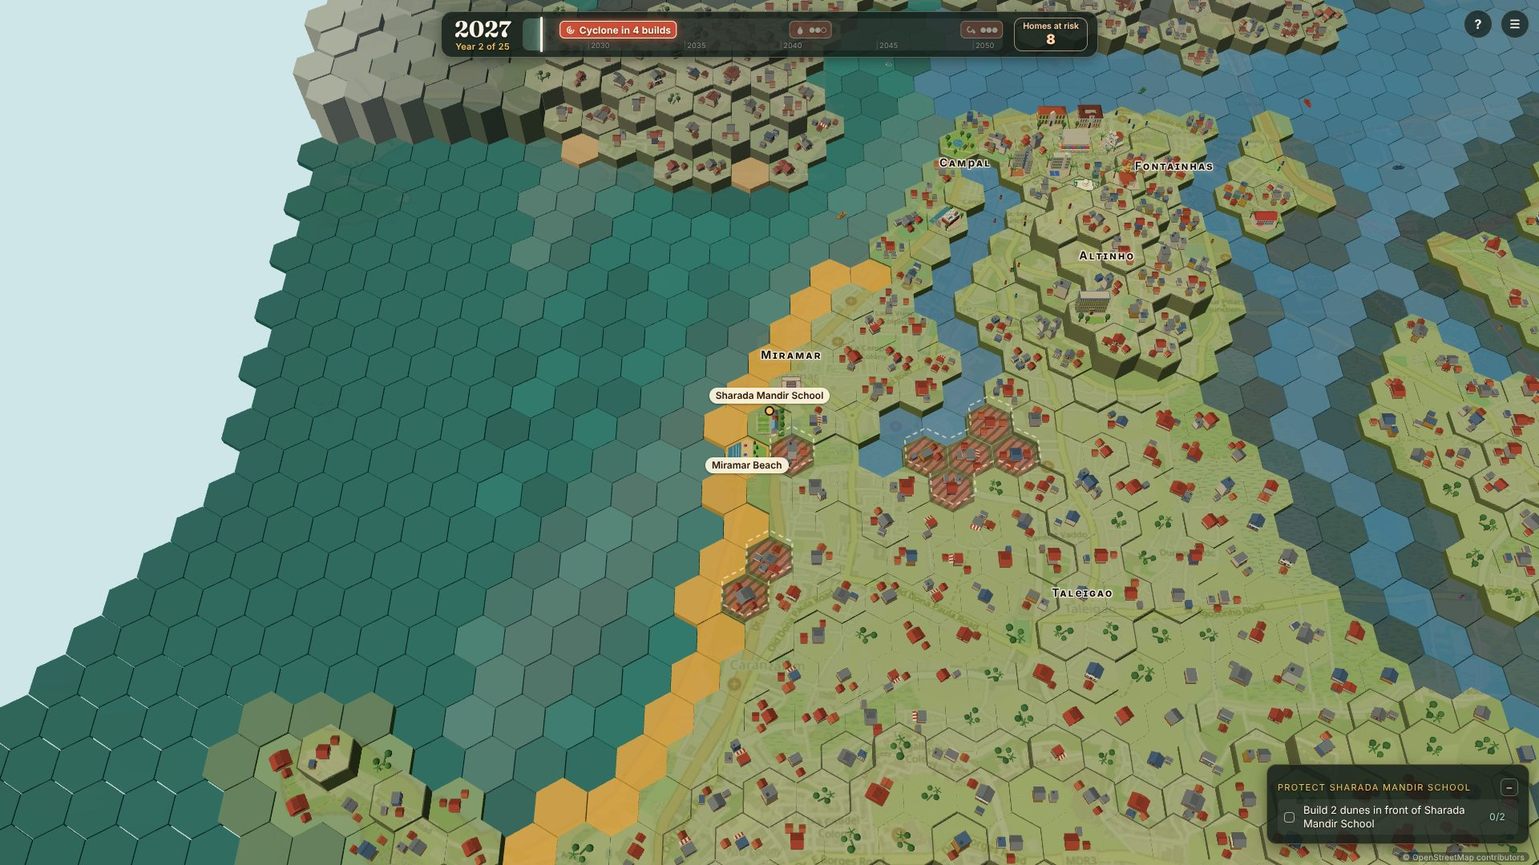
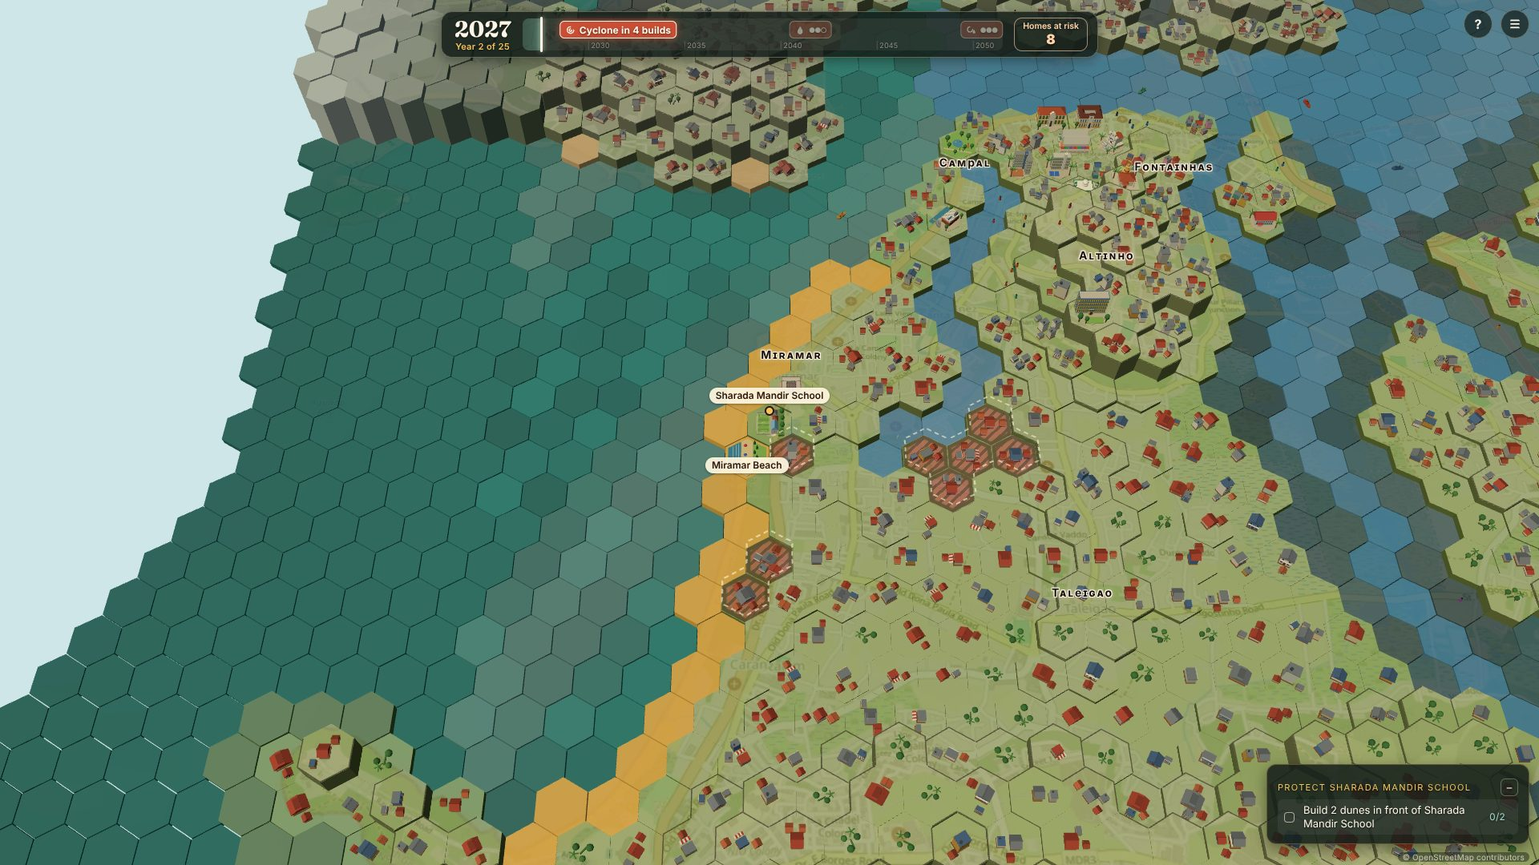
Section 21: end to end playthrough tool; live risk shots
Claude-Session: https://claude.ai/code/session_01CR8PN9tFYneT4rrWy2Y36p

diff --git a/tools/playthrough21.ts b/tools/playthrough21.ts
@@ -1,0 +1,374 @@
+/**
+ * Section 21.1: the game played end to end in a browser, as a player would,
+ * at one window size. Each step is checked; every problem is printed as
+ * "FAIL <what>" with a screenshot name, for docs/BUGS.md.
+ *
+ *   - Landing: only Tutorial and Play Panjim; Play Panjim, Begin; a build, a
+ *     reload, "Continue from 2027"; a reload, "Begin again" (back to 2026).
+ *   - A full run 2026 to 2050 for each play style (STYLES, or the ones given):
+ *     none (every build away from the storms), random, nature (nature based
+ *     only), seawalls (seawalls and breakwaters only), well (the objective's
+ *     rows, then the homes at risk). Each storm: hurried by clicks as a player
+ *     can; the result cards read; the ruins on the board checked against the
+ *     card; every card stepped through; the final card's Play again and Back
+ *     to the menu.
+ *   - Input: wheel zoom, R, S, +, -, Home, Esc at each step; a click during a
+ *     storm; a double click on a tile; Help and ☰ during a storm and over a
+ *     result card.
+ *   - Edges: a click on the north bank and the east edge; resizing the window
+ *     mid storm; reloading mid storm and over a result card; two tabs.
+ *   - Text: every visible text scanned for the dots and hyphens Section 17b
+ *     removed; nothing cut off, scrolling or off screen.
+ *   - Console: errors and warnings, none expected.
+ *
+ * Usage: npx tsx tools/playthrough21.ts <width> <height> [outDir] [styles=none,random,nature,seawalls,well]
+ * Exits 1 on any failure.
+ */
+import { chromium, type Browser, type BrowserContext, type Page } from "playwright";
+import fs from "node:fs";
+import path from "node:path";
+import { startDevServer } from "./devServer";
+import { punctuationProblems } from "../tests/helpers/uiStrings";
+
+const ROOT = path.resolve(import.meta.dirname, "..");
+const plain = process.argv.slice(2).filter((a) => !a.includes("="));
+const named = new Map(process.argv.slice(2).filter((a) => a.includes("=")).map((a) => a.split("=") as [string, string]));
+const [w = "1366", h = "768", outDir = "docs/qa/section21/playthrough"] = plain;
+const W = Number(w);
+const H = Number(h);
+const OUT = path.resolve(ROOT, outDir);
+fs.mkdirSync(OUT, { recursive: true });
+const STYLES = (named.get("styles") ?? "none,random,nature,seawalls,well").split(",");
+const server = await startDevServer(Number(process.env.PORT ?? 5491));
+const browser: Browser = await chromium.launch({ executablePath: fs.existsSync("/opt/pw-browsers/chromium") ? "/opt/pw-browsers/chromium" : undefined, args: ["--use-gl=angle", "--use-angle=swiftshader", "--enable-unsafe-swiftshader", "--ignore-gpu-blocklist"] });
+let failures = 0;
+const check = (ok: boolean, what: string): void => {
+  if (!ok) failures++;
+  console.log(`${ok ? "PASS" : "FAIL"} [${W}x${H}] ${what}`);
+};
+const tag = `${W}x${H}`;
+
+/** A fresh context and page, its console watched. Errors and warnings land in `log`. */
+async function newPage(context?: BrowserContext): Promise<{ page: Page; log: string[]; context: BrowserContext }> {
+  const ctx = context ?? (await browser.newContext({ viewport: { width: W, height: H } }));
+  const page = await ctx.newPage();
+  const log: string[] = [];
+  page.on("console", (m) => {
+    if (m.type() === "error" || m.type() === "warning") log.push(`${m.type()}: ${m.text()}`);
+  });
+  page.on("pageerror", (e) => log.push(`pageerror: ${e.message}`));
+  return { page, log, context: ctx };
+}
+
+async function shot(page: Page, name: string): Promise<string> {
+  const file = `${name}-${tag}.jpg`;
+  await page.screenshot({ path: path.join(OUT, file), type: "jpeg", quality: 72 });
+  return file;
+}
+
+/** Visible text (nodes and the attributes a player meets) scanned for Section 17b's dots and hyphens; and anything cut off, scrolling or off screen. */
+async function textAndLayout(page: Page, where: string): Promise<void> {
+  const found = (await page.evaluate(`(() => {
+    const texts = [];
+    const walker = document.createTreeWalker(document.body, NodeFilter.SHOW_TEXT);
+    const visible = (el) => { if (!el) return false; const cs = getComputedStyle(el); if (cs.display === "none" || cs.visibility === "hidden" || Number(cs.opacity) === 0) return false; const r = el.getBoundingClientRect(); return r.width > 0 && r.height > 0; };
+    for (let n = walker.nextNode(); n; n = walker.nextNode()) { const t = n.textContent.trim(); if (t && visible(n.parentElement)) texts.push(t); }
+    for (const el of document.querySelectorAll("[aria-label],[title],[alt],[placeholder]")) if (visible(el)) for (const a of ["aria-label","title","alt","placeholder"]) { const v = el.getAttribute(a); if (v) texts.push(v); }
+    const layout = [];
+    for (const el of document.querySelectorAll("body *")) {
+      if (!visible(el) || el.closest("canvas, svg, .map-labels, .map-label, .map-pins")) continue;
+      const cs = getComputedStyle(el);
+      const r = el.getBoundingClientRect();
+      const name = el.className && typeof el.className === "string" ? el.className.split(" ")[0] : el.tagName.toLowerCase();
+      if (["auto", "scroll"].includes(cs.overflowY) && el.scrollHeight > el.clientHeight + 2) layout.push("scrolls: " + name);
+      if (["hidden", "clip"].includes(cs.overflowX) && el.scrollWidth > el.clientWidth + 2 && el.children.length === 0 && el.textContent.trim()) layout.push("cut off: " + name + " (" + el.textContent.trim().slice(0, 40) + ")");
+      if (cs.position === "fixed" || cs.position === "absolute") {
+        if (r.right > innerWidth + 1 || r.bottom > innerHeight + 1 || r.left < -1 || r.top < -1) if (el.textContent.trim() && r.width < innerWidth) layout.push("off screen: " + name);
+      }
+    }
+    return { texts, layout: [...new Set(layout)] };
+  })()`)) as { texts: string[]; layout: string[] };
+  const punct = [...new Set(found.texts.filter((t) => punctuationProblems(t).length > 0 && !/White-throated Kingfisher/.test(t)))];
+  check(punct.length === 0, `${where}: no dots or hyphens between words${punct.length ? `: ${punct.slice(0, 4).join(" | ")}` : ""}`);
+  check(found.layout.length === 0, `${where}: nothing cut off, scrolling or off screen${found.layout.length ? `: ${found.layout.slice(0, 6).join("; ")}` : ""}`);
+}
+
+const ready = async (page: Page): Promise<void> => {
+  await page.waitForSelector(".brief-card", { timeout: 120000 });
+  await page.waitForFunction(`typeof window.__panjimScenarioForTest === "function"`, undefined, { timeout: 180000 });
+  await page.waitForTimeout(1200);
+};
+const begin = async (page: Page, label = "Begin"): Promise<void> => {
+  await page.locator(".brief-cta", { hasText: label }).first().click();
+  await page.waitForTimeout(2500);
+  await page.mouse.move(2, H - 2);
+};
+const year = (page: Page): Promise<number> => page.evaluate("window.__panjimForTest.run.year") as Promise<number>;
+const cardsOpen = (page: Page): Promise<boolean> => page.evaluate("!!document.querySelector('.result-cards:not([hidden]) .result-next')") as Promise<boolean>;
+const storming = (page: Page): Promise<boolean> => page.evaluate("window.__panjimForTest.host.challengeFx.isPlaying()") as Promise<boolean>;
+const finalCard = (page: Page): Promise<boolean> => page.evaluate("!!document.querySelector('.finale-card') || [...document.querySelectorAll('.result-cards:not([hidden]) button')].some((b) => /Play again/.test(b.textContent))") as Promise<boolean>;
+
+// In-page: the tile a play style builds on next (null: nothing worth building, the year goes away from the storms).
+const PICK = `(style, seed) => {
+  const p = window.__panjimForTest; const run = p.run; const state = run.state;
+  let s = seed; const rnd = () => (s = (s * 16807) % 2147483647) / 2147483647;
+  const ALL = ["dune", "sandy_vegetation", "seawall", "breakwater", "mangrove", "khazan", "small_dam"];
+  const allowed = { random: ALL, nature: ["dune", "sandy_vegetation", "mangrove", "khazan"], seawalls: ["seawall", "breakwater"], well: ALL }[style];
+  if (!allowed) return null;
+  const at = (k) => { const [q, r] = k.split(",").map(Number); return { q, r }; };
+  const can = (k, id) => state.canBuild(at(k), id);
+  const hex = (a, b) => { const A = at(a), B = at(b); return (Math.abs(A.q - B.q) + Math.abs(A.r - B.r) + Math.abs(A.q + A.r - B.q - B.r)) / 2; };
+  if (style === "well" || style === "nature") for (const pk of run.objective?.picks ?? []) if (allowed.includes(pk.elementId) && can(pk.key, pk.elementId)) return { key: pk.key, id: pk.elementId };
+  const keys = [...state.placed.keys()].filter((k) => !state.isScenery(k));
+  if (style !== "random") {
+    const next = run.nextChallenge(); const exp = next ? run.exposureFor(next) : null; const risk = exp ? exp.housesAtRisk : [];
+    let best = null;
+    for (const k of keys) { const near = risk.filter((h) => hex(h, k) <= 2).length; if (!near) continue; for (const id of allowed) if (can(k, id)) { const score = near + rnd(); if (!best || score > best.score) best = { key: k, id, score }; } }
+    if (best) return { key: best.key, id: best.id };
+    if (style !== "well") return null;
+  }
+  for (let t = 0; t < 400; t++) { const k = keys[Math.floor(rnd() * keys.length)]; const ids = allowed.filter((id) => can(k, id)); if (ids.length) return { key: k, id: ids[Math.floor(rnd() * ids.length)] }; }
+  return null;
+}`;
+
+/** Plays a storm through as a player who clicks to hurry it, then reads and closes the result cards. Returns false at the final card. */
+async function weatherStorm(page: Page, style: string, ruinsBefore: number): Promise<{ ruins: number; final: boolean }> {
+  for (let k = 0; k < 800 && !(await cardsOpen(page)) && !(await finalCard(page)); k++) {
+    if (await storming(page)) await page.mouse.click(W * 0.5, H * 0.55);
+    await page.waitForTimeout(250);
+  }
+  const id = (await page.evaluate("[...window.__panjimForTest.run.landed].pop()")) as string;
+  const outcome = (await page.evaluate(`(() => { const o = window.__panjimForTest.run.outcomes.get(${JSON.stringify(id)}); return o ? { damaged: o.housesDamaged, saved: o.housesSaved, total: o.housesTotal, stars: o.stars } : null; })()`)) as { damaged: number; saved: number; total: number; stars: number } | null;
+  const card = (await page.evaluate(`(() => { const m = /(\\d+) of (\\d+) homes saved/.exec(document.querySelector(".result-homes-text")?.textContent ?? ""); return m ? { saved: Number(m[1]), total: Number(m[2]) } : null; })()`)) as { saved: number; total: number } | null;
+  const ruins = (await page.evaluate("window.__ruinsForTest().ruined")) as number;
+  check(!!outcome && !!card && card.saved === outcome.saved && card.total === outcome.total, `${style} ${id}: the card reads ${card?.saved} of ${card?.total} homes saved, as the storm resolved`);
+  check(!!outcome && ruins - ruinsBefore === outcome.damaged, `${style} ${id}: ${ruins - ruinsBefore} new ruins, the ${outcome?.damaged} homes it destroyed`);
+  await shot(page, `${style}-${id}-card1`);
+  await textAndLayout(page, `${style} ${id} result card`);
+  // Input over a result card: Help and ☰ open and close; Esc.
+  await page.keyboard.press("Escape");
+  await page.waitForTimeout(400);
+  check(await cardsOpen(page) || (await finalCard(page)), `${style} ${id}: Esc does not drop the result cards`);
+  for (let k = 0; k < 8; k++) {
+    if (await finalCard(page)) return { ruins, final: true };
+    const next = page.locator(".result-cards:not([hidden]) .result-next");
+    if (!(await next.isVisible().catch(() => false))) break;
+    const label = (await next.textContent()) ?? "";
+    await next.click();
+    await page.waitForTimeout(1100);
+    if (/Play again|Back to/.test(label)) break;
+  }
+  await page.waitForTimeout(1500);
+  return { ruins, final: await finalCard(page) };
+}
+
+/** A full run in one play style, 2026 to 2050. */
+async function playStyle(style: string): Promise<void> {
+  const { page, log, context } = await newPage();
+  await page.addInitScript(() => {
+    try {
+      localStorage.clear();
+    } catch {
+      /* blocked */
+    }
+  });
+  await page.goto(`${server.url}/#/play/l01-first-rains`, { waitUntil: "domcontentloaded" });
+  await ready(page);
+  await begin(page);
+  let ruins = 0;
+  let seed = 9871 + style.length * 31;
+  let builds = 0;
+  while (builds < 40) {
+    if (await finalCard(page)) break;
+    if ((await page.evaluate("window.__panjimForTest.run.finished")) as boolean) break;
+    const pick = (await page.evaluate(`(${PICK})(${JSON.stringify(style)}, ${seed++})`)) as { key: string; id: string } | null;
+    const before = await year(page);
+    if (pick) {
+      const [q, r] = pick.key.split(",").map(Number);
+      void page.evaluate(`window.__panjimForTest.buildNow({ q: ${q}, r: ${r} }, ${JSON.stringify(pick.id)})`);
+    } else void page.evaluate(`window.__panjimScenarioForTest("pass-year")`);
+    builds++;
+    // The year ends; a storm may come.
+    for (let k = 0; k < 120; k++) {
+      await page.waitForTimeout(200);
+      if ((await storming(page)) || (await cardsOpen(page)) || (await year(page)) !== before || (await finalCard(page))) break;
+    }
+    if ((await storming(page)) || (await cardsOpen(page))) {
+      if (builds < 8) {
+        // Input during the first storm: Help and ☰ refuse or wait, a double click, R and S, a resize.
+        await page.keyboard.press("?");
+        await page.locator(".help-button").click({ timeout: 1000 }).catch(() => undefined);
+        await page.waitForTimeout(300);
+        await page.keyboard.press("Escape");
+        await page.mouse.dblclick(W * 0.45, H * 0.5);
+        await page.keyboard.press("r");
+        await page.keyboard.press("r");
+        await page.setViewportSize({ width: Math.round(W * 0.8), height: Math.round(H * 0.8) });
+        await page.waitForTimeout(500);
+        await page.setViewportSize({ width: W, height: H });
+        await shot(page, `${style}-storm`);
+      }
+      const result = await weatherStorm(page, style, ruins);
+      ruins = result.ruins;
+      if (result.final) break;
+    }
+  }
+  check(await finalCard(page), `${style}: the run reaches the final card (${builds} builds, year ${await year(page)})`);
+  await shot(page, `${style}-final`);
+  await textAndLayout(page, `${style} final card`);
+  const stars = (await page.evaluate("window.__panjimForTest.run.schedule.map((c) => window.__panjimForTest.run.outcomes.get(c.id)?.stars ?? 0)")) as number[];
+  console.log(`INFO [${tag}] ${style}: stars ${stars.join(" / ")}, ruins ${ruins}`);
+  const buttons = (await page.evaluate("[...document.querySelectorAll('button')].filter((b) => b.getClientRects().length).map((b) => b.textContent.trim())")) as string[];
+  check(buttons.some((b) => /Play again/.test(b)), `${style}: the final card offers Play again (${buttons.filter((b) => /Play|Back|menu/i.test(b)).join(", ")})`);
+  const errs = log.filter((l) => !/Download the React DevTools|GPU stall|WebGL/.test(l));
+  check(errs.length === 0, `${style}: no console errors or warnings${errs.length ? `: ${errs.slice(0, 3).join(" | ")}` : ""}`);
+  await context.close();
+}
+
+// ---- landing, continue, begin again, input, edges ----------------------------------------
+{
+  const { page, log, context } = await newPage();
+  await page.goto(server.url, { waitUntil: "domcontentloaded" });
+  await page.waitForTimeout(4000);
+  const menu = (await page.evaluate("[...document.querySelectorAll('.menu button, .menu a, nav button, .landing button')].filter((b) => b.getClientRects().length).map((b) => b.textContent.trim())")) as string[];
+  check(menu.some((t) => /Tutorial/.test(t)) && menu.some((t) => /Play Panjim/.test(t)) && !menu.some((t) => /level/i.test(t)), `the menu offers Tutorial and Play Panjim only (${menu.join(", ")})`);
+  await shot(page, "landing");
+  await textAndLayout(page, "landing");
+  await page.getByText("Play Panjim").first().click();
+  await ready(page);
+  await shot(page, "start-popup");
+  await textAndLayout(page, "start popup");
+  await begin(page);
+  await textAndLayout(page, "the board in 2026");
+  // Keys: R, S, +, -, Home, Esc.
+  for (const key of ["r", "r", "s", "s", "+", "-", "Home"]) {
+    await page.keyboard.press(key);
+    await page.waitForTimeout(250);
+  }
+  await page.mouse.move(W / 2, H / 2);
+  for (let i = 0; i < 3; i++) await page.mouse.wheel(0, -500);
+  for (let i = 0; i < 3; i++) await page.mouse.wheel(0, 500);
+  await page.keyboard.press("Escape");
+  await page.waitForTimeout(500);
+  const leave = (await page.evaluate("!!document.querySelector('.leave-confirm:not([hidden])') && document.querySelector('.leave-confirm').getClientRects().length > 0")) as boolean;
+  check(leave, "Esc with nothing open asks to leave Panjim");
+  await shot(page, "esc-leave");
+  await page.keyboard.press("Escape");
+  await page.waitForTimeout(400);
+  // ☰ and Help, and Esc closing each.
+  for (const [button, layer] of [[".hud-panel-settings .hud-panel-button", ".hud-panel-settings .hud-panel-body"], [".help-button", ".help-card"]]) {
+    await page.locator(button).first().click().catch(() => undefined);
+    await page.waitForTimeout(700);
+    const label = button.includes("help") ? "Help" : "the ☰ menu";
+    await shot(page, `open-${button.includes("help") ? "help" : "menu"}`);
+    await textAndLayout(page, label);
+    await page.keyboard.press("Escape");
+    await page.waitForTimeout(500);
+    const still = (await page.evaluate(`[...document.querySelectorAll(${JSON.stringify(layer)})].some((el) => el.getClientRects().length && getComputedStyle(el).visibility !== "hidden" && !el.hidden)`)) as boolean;
+    check(!still, `Esc closes ${label}`);
+  }
+  // The Field Guide.
+  await page.locator(".field-guide-button").first().click({ force: true }).catch(() => undefined);
+  await page.waitForTimeout(600);
+  await shot(page, "field-guide");
+  await textAndLayout(page, "Field Guide");
+  await page.keyboard.press("Escape");
+  await page.waitForTimeout(400);
+  // A build menu on each kind of ground, the Not here line; the notes on scenery and a landmark.
+  for (const [ground, element] of [["beach", "dune"], ["wetland", "mangrove"], ["river", "small_dam"], ["coast", "breakwater"], ["land", "khazan"]] as const) {
+    const opened = (await page.evaluate(`(() => { const t = window.__panjimForTest.firstBuildable(${JSON.stringify(element)}); return t ? window.__openTileForTest(t.q, t.r) : false; })()`)) as boolean;
+    await page.mouse.move(2, H - 2);
+    await page.waitForTimeout(800);
+    if (opened) {
+      await shot(page, `build-menu-${ground}`);
+      await textAndLayout(page, `build menu on ${ground}`);
+    }
+    check(opened, `a build menu opens on ${ground}`);
+    await page.keyboard.press("Escape");
+    await page.waitForTimeout(400);
+  }
+  for (const [what, q, r, note] of [["the north bank", 1, 6, /North of the Mandovi/], ["the east edge", 27, 13, /Outside Panjim/], ["a landmark", 11, 8, /Panjim landmark/]] as const) {
+    await page.evaluate(`window.__openTileForTest(${q}, ${r})`);
+    await page.waitForTimeout(800);
+    const text = (await page.evaluate("[...document.querySelectorAll('.build-popover')].filter((el) => el.getClientRects().length).map((el) => el.innerText).join(' ')")) as string;
+    check(note.test(text) && !/Build|Plant/.test(text.split("\n")[0]), `${what}: its note only ("${text.replace(/\s+/g, " ").slice(0, 60)}")`);
+    await page.keyboard.press("Escape");
+    await page.waitForTimeout(400);
+  }
+  // A build, then a reload: Continue from 2027; then Begin again.
+  const t = (await page.evaluate("window.__panjimForTest.firstBuildable('dune')")) as { q: number; r: number };
+  await page.evaluate(`window.__panjimForTest.buildNow({ q: ${t.q}, r: ${t.r} }, "dune")`);
+  await page.waitForTimeout(2500);
+  check((await year(page)) === 2027, "a build ends the year: 2027");
+  await page.reload({ waitUntil: "domcontentloaded" });
+  await ready(page);
+  const ctas = (await page.evaluate("[...document.querySelectorAll('.brief-cta')].map((b) => b.textContent.trim())")) as string[];
+  check(ctas.some((c) => /Continue from 2027/.test(c)) && ctas.some((c) => /Begin again/.test(c)), `after a reload the start popup offers ${ctas.join(" and ")}`);
+  await shot(page, "continue");
+  await begin(page, "Continue from 2027");
+  check((await year(page)) === 2027, "Continue lands in 2027");
+  // Two tabs on the same run.
+  const second = await newPage(context);
+  await second.page.goto(`${server.url}/#/play/l01-first-rains`, { waitUntil: "domcontentloaded" });
+  await ready(second.page);
+  const ctas2 = (await second.page.evaluate("[...document.querySelectorAll('.brief-cta')].map((b) => b.textContent.trim())")) as string[];
+  check(ctas2.some((c) => /Continue from 2027/.test(c)), `a second tab offers the same saved run (${ctas2.join(", ")})`);
+  await begin(second.page, "Begin again");
+  check((await year(second.page)) === 2026, "Begin again in the second tab starts at 2026");
+  const t2 = (await second.page.evaluate("window.__panjimForTest.firstBuildable('dune')")) as { q: number; r: number };
+  await second.page.evaluate(`window.__panjimForTest.buildNow({ q: ${t2.q}, r: ${t2.r} }, "dune")`);
+  await second.page.waitForTimeout(2000);
+  const t1 = (await page.evaluate("window.__panjimForTest.firstBuildable('mangrove')")) as { q: number; r: number };
+  await page.evaluate(`window.__panjimForTest.buildNow({ q: ${t1.q}, r: ${t1.r} }, "mangrove")`);
+  await page.waitForTimeout(2000);
+  check((await year(page)) === 2028 && (await year(second.page)) === 2027, `two tabs each play on (first ${await year(page)}, second ${await year(second.page)})`);
+  check(second.log.filter((l) => !/GPU stall|WebGL/.test(l)).length === 0, `the second tab: no console errors or warnings${second.log.length ? `: ${second.log.slice(0, 3).join(" | ")}` : ""}`);
+  await second.page.close();
+  // Reload mid storm and over a result card.
+  await page.evaluate(`window.__panjimScenarioForTest("storm-6")`);
+  await page.waitForTimeout(1500);
+  check(await storming(page), "a storm is playing");
+  await page.setViewportSize({ width: Math.round(W * 0.75), height: Math.round(H * 0.75) });
+  await page.waitForTimeout(800);
+  await shot(page, "resized-mid-storm");
+  await page.setViewportSize({ width: W, height: H });
+  await page.waitForTimeout(800);
+  const canvas = (await page.evaluate("(() => { const c = document.querySelector('canvas'); const r = c.getBoundingClientRect(); return { w: Math.round(r.width), h: Math.round(r.height) }; })()")) as { w: number; h: number };
+  check(Math.abs(canvas.w - W) <= 2 && Math.abs(canvas.h - H) <= 2, `after a resize mid storm the board fills the window again (${canvas.w}x${canvas.h})`);
+  await page.reload({ waitUntil: "domcontentloaded" });
+  await ready(page);
+  const afterStorm = (await page.evaluate("[...document.querySelectorAll('.brief-cta')].map((b) => b.textContent.trim())")) as string[];
+  await shot(page, "reload-mid-storm");
+  check(afterStorm.some((c) => /Continue from/.test(c)), `reloading mid storm offers to continue (${afterStorm.join(", ")})`);
+  await begin(page, afterStorm.find((c) => /Continue from/.test(c)) ?? "Begin");
+  for (let k = 0; k < 300 && (await storming(page)); k++) {
+    await page.mouse.click(W * 0.5, H * 0.55);
+    await page.waitForTimeout(250);
+  }
+  const resumed = await year(page);
+  console.log(`INFO [${tag}] reload mid storm: continued at ${resumed}, landed ${await page.evaluate("[...window.__panjimForTest.run.landed].join(',')")}`);
+  await page.evaluate(`window.__panjimScenarioForTest("to-results")`).catch(() => undefined);
+  for (let k = 0; k < 400 && !(await cardsOpen(page)); k++) await page.waitForTimeout(250);
+  check(await cardsOpen(page), "a result card is open");
+  await page.locator(".help-button").click({ timeout: 1500 }).catch(() => undefined);
+  await page.waitForTimeout(600);
+  await shot(page, "help-over-result-card");
+  await page.keyboard.press("Escape");
+  await page.waitForTimeout(400);
+  check(await cardsOpen(page), "Help over a result card closes back to the card");
+  await page.reload({ waitUntil: "domcontentloaded" });
+  await ready(page);
+  const afterCard = (await page.evaluate("[...document.querySelectorAll('.brief-cta')].map((b) => b.textContent.trim())")) as string[];
+  await shot(page, "reload-over-result-card");
+  check(afterCard.some((c) => /Continue from/.test(c)), `reloading over a result card offers to continue (${afterCard.join(", ")})`);
+  const errs = log.filter((l) => !/GPU stall|WebGL/.test(l));
+  check(errs.length === 0, `landing, input and edges: no console errors or warnings${errs.length ? `: ${errs.slice(0, 4).join(" | ")}` : ""}`);
+  await context.close();
+}
+
+for (const style of STYLES) await playStyle(style);
+
+console.log(`${failures === 0 ? "ALL PASS" : `${failures} FAILED`} (${tag})`);
+await browser.close();
+server.stop();
+process.exit(failures === 0 ? 0 : 1);

diff --git a/tools/section21Shots.ts b/tools/section21Shots.ts
@@ -82,7 +82,8 @@ const before = await risk(page);
 check(before.year === 2027 && before.on && before.hot > 0 && before.hot === before.homes, `2027, R: the heat shows the homes at risk, as many as the top bar says (${JSON.stringify(before)})`);
 await focus(page, world(-3, 18), 5);
 await shot(page, "risk-2027-before");
-await page.evaluate(`window.__buildForTest(-4, 18, "dune", false)`);
+// Through the player's build path (the year's build): the heat and the top bar are worked out again at once.
+await page.evaluate(`window.__panjimForTest.buildNow({ q: -4, r: 18 }, "dune")`);
 await page.waitForTimeout(2500);
 const after = await risk(page);
 check(after.on && after.hot < before.hot && after.hot === after.homes, `after a dune in front of the school: fewer homes at risk, heat and top bar agree (${before.hot} → ${after.hot}, top bar ${after.homes})`);
